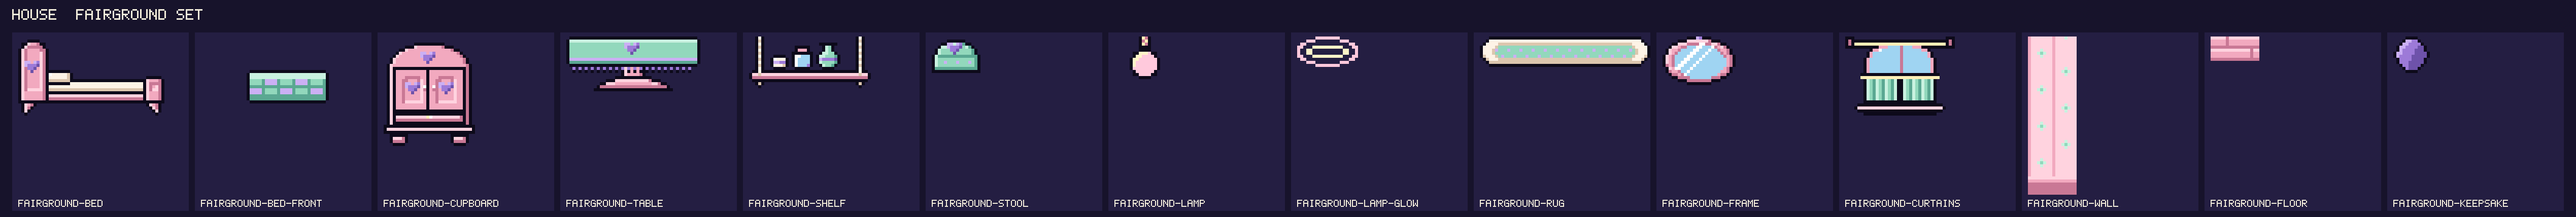
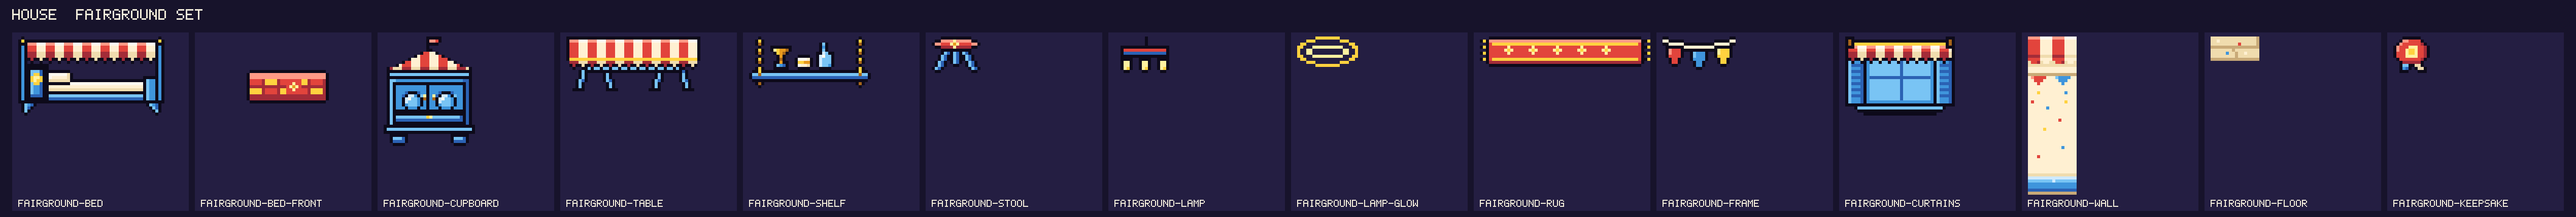
Fairground set: striped awnings, tent roof, bunting and bulbs from the Games meadow
Claude-Session: https://claude.ai/code/session_01EFPnY7ahFEnrNM2ViZtrVZ

diff --git a/apps/activity/src/sprites/data/house/fairground.ts b/apps/activity/src/sprites/data/house/fairground.ts
@@ -1,17 +1,119 @@
 /**
- * House furniture pack: Fairground. Made by `pnpm housing new-set fairground`: the nine pieces are drawn from the
- * style (`../../workshop/styles/fairground.ts`) with no overrides; the wallpaper, floor and keepsake are placeholders
- * in the style's palette.
- * TODO(artist): draw the wallpaper (16x52), floor (16x8) and keepsake (12x12) by hand in a `HAND` pack (see
- * `tidepool.ts`), and add overrides (with a reason) where a form cannot say what the set needs.
+ * House furniture pack: Fairground. The nine pieces are drawn from the style (`../../workshop/styles/fairground.ts`,
+ * with its part hooks: the bed's awning, the cupboard's tent roof, the stall table's cloth, the pennants, the string of
+ * bulbs, and the awning valance); nothing is overridden. The wallpaper, floor and keepsake are
+ * drawn here: the wallpaper is a red and cream striped awning with a scalloped hem over a string of pennants and
+ * confetti on cream, the floor trodden boardwalk planks, the keepsake a prize rosette with two ribbon tails. `.` is
+ * transparent, `k` the ink; the tiles have no outline.
  */
+import type { SpriteDef } from '../../sprite-data';
 import type { HouseArtPack } from '../../../housing/house-art';
 import { setPack, type SetSource } from '../../workshop/pack';
-import { placeholderHand } from '../../workshop/placeholder';
 import { FAIRGROUND } from '../../workshop/styles/fairground';
 
-/** TODO(artist): placeholder wallpaper, floor and keepsake. */
-const HAND: HouseArtPack = placeholderHand(FAIRGROUND);
+const PALETTE: Readonly<Record<string, string>> = FAIRGROUND.palette;
+
+/** A sprite with only the palette keys its rows use. */
+function art(rows: readonly string[]): SpriteDef {
+  const used = new Set(rows.join(''));
+  return {
+    rows,
+    palette: Object.fromEntries(Object.entries(PALETTE).filter(([key]) => used.has(key))),
+  };
+}
+
+/** One row of the awning: stripes four wide, `a` then `b`, twice. */
+const band = (a: string, b: string): string => `${a.repeat(4)}${b.repeat(4)}`.repeat(2);
+
+/** The keepsake, 12x12: a prize rosette (red, a gold middle) on a blue and a cream ribbon tail. */
+const KEEPSAKE: readonly string[] = [
+  '...kkkkkk...',
+  '..krrssssk..',
+  '.krsssssstk.',
+  'krsssyyysstk',
+  'krssyggysstk',
+  'ksssyggysstk',
+  'ksssyyyysstk',
+  '.kssssssstk.',
+  '..kttttttk..',
+  '..kbbkkjjk..',
+  '..kcdk.kjjk.',
+  '..kkk...kkk.',
+];
+
+const WALL: readonly string[] = [
+  // the awning: stripes of red and cream, lit on top and dark at the hem, then the scalloped tabs
+  band('r', 'w'),
+  ...Array.from({ length: 5 }, () => band('s', 'i')),
+  band('t', 'j'),
+  band('s', 'i'),
+  'jsstjiijjsstjiij',
+  'jjjjjjjjjjjjjjjj',
+  'iiiiiiiiiiiiiiii',
+  'iiiiiiiiiiiiiiii',
+  // a string of pennants: red and blue
+  'qqqqqqqqqqqqqqqq',
+  'irssssiiibccccii',
+  'iisssiiiiiccciii',
+  'iiisiiiiiiiciiii',
+  'iiiiiiiiiiiiiiii',
+  // confetti on cream
+  'iiiiiiiiiiiiiiii',
+  'iiigiiiiiiiiciii',
+  'iiiiiiiiiiiiiiii',
+  'iiiiiiiiiiiiiiii',
+  'isiiiiiiiiiigiii',
+  'iiiiiiiiiiiiiiii',
+  'iiiiiiciiiiiiiii',
+  'iiiiiiiiiiiiiiii',
+  'iiiiiiiiiiiiiiii',
+  'iiiiiiiiiiiiiiii',
+  'iiiiiiiiiisiiiii',
+  'iiiiiiiiiiiiiiii',
+  'iiiiiiiiiiiiiiii',
+  'iiiiigiiiiiiiiii',
+  'iiiiiiiiiiiiiiii',
+  'iiiiiiiiiiiiiiii',
+  'iiiiiiiiiiiiiiii',
+  'iiiiiiiiiiiiiiii',
+  'iiiiiiiiiiiiiiii',
+  'iiiiiiiiiiiciiii',
+  'iiiiiiiiiiiiiiii',
+  'iiiiiiiiiiiiiiii',
+  'iiisiiiiiiiiiiii',
+  'iiiiiiiiiiiiiiii',
+  'iiiiiiiiiiiiiiii',
+  'iiiiiiiiiiiiiiii',
+  'iiiiiiiiiiiiiiii',
+  'iiiiiiiiiiiiiiii',
+  'jjjjjjjjjjjjjjjj',
+  // skirting: a blue plank edge, the board and its shadow
+  'pppppppppppppppp',
+  'bbbbbbbbpbbbbbbb',
+  'cccccccccccccccc',
+  'cccccccccccccccc',
+  'dddddddddddddddd',
+  'qqqqqqqqqqqqqqqq',
+];
+
+const HAND: HouseArtPack = {
+  skins: {
+    'fairground-wall': { tile: art(WALL) },
+    'fairground-floor': {
+      tile: art([
+        'jjjjjjjjjjjjjjjq',
+        'jjijjjjjjjjjjjjq',
+        'jjjjjjjjjsjjjjjq',
+        'qqqqqqqqqqqqqqqq',
+        'jjjjjjjqjjjjjjjj',
+        'jjjjjcjjqjjijjjj',
+        'jjjjjjjjqjjjjjjj',
+        'qqqqqqqqqqqqqqqq',
+      ]),
+    },
+  },
+  keepsakes: { fairground: art(KEEPSAKE) },
+};
 
 export const SOURCE: SetSource = { style: FAIRGROUND, hand: HAND };
 

diff --git a/apps/activity/src/sprites/workshop/styles/fairground.ts b/apps/activity/src/sprites/workshop/styles/fairground.ts
@@ -91,9 +91,9 @@ const tent: PartDraw = ({ c, style, at }) => {
 
 /** The stall table's cloth: stripes over the whole top, a scalloped hem. */
 const stallCloth: PartDraw = ({ c, style, at }) => {
-  stripes(c, style, 0, 0, 44, at.y + 3);
+  stripes(c, style, 1, 1, 42, at.y + 2);
   hline(c, 1, at.y + 2, 42, style.accent.light);
-  scallops(c, style, 0, at.y + 3, 44);
+  scallops(c, style, 1, at.y + 3, 42);
 };
 
 /** A string of three pennants for the frame. */
@@ -105,7 +105,9 @@ const bunting: PartDraw = ({ c, style }) => {
   ];
   for (let x = 0; x < 24; x++) {
     const sag = Math.round(2 * Math.sin((Math.PI * x) / 23));
+    put(c, x, sag, INK);
     put(c, x, 1 + sag, style.linen.mid);
+    put(c, x, 2 + sag, INK);
   }
   for (const f of flags) {
     const sag = Math.round(2 * Math.sin((Math.PI * (f.x + 2.5)) / 23));
@@ -116,10 +118,11 @@ const bunting: PartDraw = ({ c, style }) => {
   }
 };
 
-/** A string of three bulbs on a brass bar, hanging from the ceiling. */
+/** A string of three bulbs on a blue bar, hanging from the ceiling. */
 const bulbs: PartDraw = ({ c, style }) => {
   for (let y = 0; y < 3; y++) put(c, 10, y, INK);
-  box(c, 2, 3, 16, 4, style.metal, { shade: 'rows' });
+  box(c, 2, 3, 16, 4, style.wood, { shade: 'rows' });
+  hline(c, 3, 4, 14, style.cloth.mid);
   for (const x of [2, 8, 14]) {
     stamp(c, x, 7, ['kkkk', 'kyyk', 'kyyk', 'kygk', '.kk.'], {
       y: style.accent.hi ?? style.accent.light,
@@ -128,17 +131,30 @@ const bulbs: PartDraw = ({ c, style }) => {
   }
 };
 
-/** The stool's seat: a flat striped cushion with the star. */
-const seat: PartDraw = ({ c, style }) => {
-  stripes(c, style, 1, 1, 14, 3);
-  put(c, 7, 2, style.accent.hi ?? style.accent.light);
-  put(c, 8, 2, style.accent.light);
-};
-
 /** The curtains' valance: the stall awning over the window. */
 const awningValance: PartDraw = ({ c, style }) => {
   stripes(c, style, 1, 3, 34, 3);
   scallops(c, style, 1, 6, 34);
+};
+
+/** A red runner with a yellow stripe along each side, a row of stars and a yellow fringe at both ends. */
+const runner: PartDraw = ({ c, style, at }) => {
+  box(c, at.x + 2, at.y, at.w - 4, at.h, style.cloth, { shade: 'rows', round: 1 });
+  for (const y of [at.y + 2, at.y + at.h - 3]) {
+    hline(c, at.x + 4, y, at.w - 8, style.accent.light);
+  }
+  for (let x = at.x + 8; x < at.x + at.w - 10; x += 8) {
+    stamp(c, x, at.y + 3, ['.y.', 'ygy', '.y.'], {
+      y: style.accent.hi ?? style.accent.light,
+      g: style.accent.light,
+    });
+  }
+  for (const x of [at.x, at.x + at.w - 2]) {
+    for (let y = at.y + 1; y < at.y + at.h - 1; y += 2) {
+      put(c, x, y, INK);
+      put(c, x + 1, y, style.accent.light);
+    }
+  }
 };
 
 export const FAIRGROUND: Style = {
@@ -195,7 +211,7 @@ export const FAIRGROUND: Style = {
     table: { apron: stallCloth },
     frame: { frame: bunting, picture: () => undefined },
     lamp: { lamp: bulbs },
-    stool: { seat },
+    rug: { rug: runner },
     curtains: { valance: awningValance },
   },
 };

diff --git a/apps/activity/src/sprites/workshop/new-set.test.ts b/apps/activity/src/sprites/workshop/new-set.test.ts
@@ -261,7 +261,7 @@ describe('remove-set, as a plan', () => {
 
   it('never touches a shipped set', () => {
     const { read } = files();
-    for (const id of ['cosy', 'tidepool', 'lantern-night', 'quiet-verge']) {
+    for (const id of ['cosy', 'tidepool', 'lantern-night', 'quiet-verge', 'fairground']) {
       expect(() => planRemoveSet(id, read)).toThrow(/shipped/);
       expect(() => planNewSet(parseSpec(id, {}), read, ctx(read))).toThrow(/shipped/);
     }

diff --git a/apps/activity/src/sprites/workshop/new-set.ts b/apps/activity/src/sprites/workshop/new-set.ts
@@ -45,6 +45,7 @@ export const SHIPPED_SET_IDS: readonly string[] = [
   'ancient',
   'lantern-night',
   'quiet-verge',
+  'fairground',
 ];
 
 /** The style `new-set` copies when `--from` is not given. */

diff --git a/docs/compendium/housing.md b/docs/compendium/housing.md
@@ -86,39 +86,39 @@ A form is a kind of furniture and the spot it fits. Every piece of a form shares
 
 ## Sets
 
-Ten sets: the starter set and nine to collect, each with its own palette and one motif that appears on every piece. Finishing a set puts its keepsake in the trophy hall's cabinet. A set is never a bonus. `(content: sets.json)`
+Eleven sets: the starter set and ten to collect, each with its own palette and one motif that appears on every piece. Finishing a set puts its keepsake in the trophy hall's cabinet. A set is never a bonus. `(content: sets.json)`
 
-| Set           | Element | Keepsake `(content)`                                                        | Motif and palette `(design)`                                                                                                         |
-| ------------- | ------- | --------------------------------------------------------------------------- | ------------------------------------------------------------------------------------------------------------------------------------ |
-| Cosy          | None    | Hearth Bell: A small brass bell. It rings when someone comes home.          | The living room as it is: warm wood, cream cushions. Shipped sprites; only the missing forms are new.                                |
-| Tidepool      | Tide    | Pearl Shell: A shell with a pearl still inside.                             | Driftwood with scalloped shell edges; sea blue, sand, pearl white.                                                                   |
-| Moonlit       | Tide    | Moon Pebble: A smooth stone, cool at noon and warm at midnight.             | Night-reef blue lacquer, coral pink inlay, a soft moonstone knob; silver highlights.                                                 |
-| Emberhold     | Ember   | Forge Ember: A coal that has never gone out.                                | Forge-folk work: black charwood, riveted iron bands, amber glow; rust, coal, ember orange.                                           |
-| Rootwood      | Grove   | Acorn Seedling: A seedling in a thimble, and growing.                       | Woodfolk of the Hollow: living-wood curves, leaf carving, moss cushions; bark brown, moss and leaf greens.                           |
-| Stormglass    | Spark   | Spark Bead: A glass bead with a small storm inside.                         | Pale ash with a lightning scar, copper coils and glass beads; slate, copper, storm violet.                                           |
-| Fenkeeper     | Mire    | Opal Drop: A drop of opal on a reed string.                                 | The bog keeps things: dark oak with reed bindings, an oil-sheen opal; peat brown, murky teal, a violet glint.                        |
-| Ancient       | None    | Gold Spiral: A small spiral of gold leaf, worn thin by hands.               | Carved standing-stone slabs, spiral carvings, worn gold leaf; sandstone, faded gold, patina teal.                                    |
-| Lantern Night | None    | Paper Tassel: A red tassel that still smells of festival evenings.          | Paper lanterns and bunting on painted wood; festival red, gold, cream.                                                               |
-| Quiet Verge   | None    | Pocket Window: A small stone window. Look in, and one warm star looks back. | Dusk-violet stone edged in pale rim light, arches with a warm star inside, chips of stone that float; window dark, lilac, star gold. |
-| Fairground    | None    | Fairground Keepsake: TODO line                                              | draft: Striped awnings, bunting and prize ribbons on painted wood; red, cream, sky blue, sunny yellow.                               |
+| Set           | Element | Keepsake `(content)`                                                         | Motif and palette `(design)`                                                                                                         |
+| ------------- | ------- | ---------------------------------------------------------------------------- | ------------------------------------------------------------------------------------------------------------------------------------ |
+| Cosy          | None    | Hearth Bell: A small brass bell. It rings when someone comes home.           | The living room as it is: warm wood, cream cushions. Shipped sprites; only the missing forms are new.                                |
+| Tidepool      | Tide    | Pearl Shell: A shell with a pearl still inside.                              | Driftwood with scalloped shell edges; sea blue, sand, pearl white.                                                                   |
+| Moonlit       | Tide    | Moon Pebble: A smooth stone, cool at noon and warm at midnight.              | Night-reef blue lacquer, coral pink inlay, a soft moonstone knob; silver highlights.                                                 |
+| Emberhold     | Ember   | Forge Ember: A coal that has never gone out.                                 | Forge-folk work: black charwood, riveted iron bands, amber glow; rust, coal, ember orange.                                           |
+| Rootwood      | Grove   | Acorn Seedling: A seedling in a thimble, and growing.                        | Woodfolk of the Hollow: living-wood curves, leaf carving, moss cushions; bark brown, moss and leaf greens.                           |
+| Stormglass    | Spark   | Spark Bead: A glass bead with a small storm inside.                          | Pale ash with a lightning scar, copper coils and glass beads; slate, copper, storm violet.                                           |
+| Fenkeeper     | Mire    | Opal Drop: A drop of opal on a reed string.                                  | The bog keeps things: dark oak with reed bindings, an oil-sheen opal; peat brown, murky teal, a violet glint.                        |
+| Ancient       | None    | Gold Spiral: A small spiral of gold leaf, worn thin by hands.                | Carved standing-stone slabs, spiral carvings, worn gold leaf; sandstone, faded gold, patina teal.                                    |
+| Lantern Night | None    | Paper Tassel: A red tassel that still smells of festival evenings.           | Paper lanterns and bunting on painted wood; festival red, gold, cream.                                                               |
+| Quiet Verge   | None    | Pocket Window: A small stone window. Look in, and one warm star looks back.  | Dusk-violet stone edged in pale rim light, arches with a warm star inside, chips of stone that float; window dark, lilac, star gold. |
+| Fairground    | None    | Prize Rosette: A pleated rosette with two ribbon tails. It says first prize. | Striped awnings, bunting and prize ribbons on painted wood; red, cream, sky blue, sunny yellow.                                      |
 
 ### Keepsakes
 
 Shown in the cabinet when the set is complete. `(content: sets.json)`
 
-| Keepsake            | Set           | Line `(content)`                                             |
-| ------------------- | ------------- | ------------------------------------------------------------ |
-| Hearth Bell         | Cosy          | A small brass bell. It rings when someone comes home.        |
-| Pearl Shell         | Tidepool      | A shell with a pearl still inside.                           |
-| Moon Pebble         | Moonlit       | A smooth stone, cool at noon and warm at midnight.           |
-| Forge Ember         | Emberhold     | A coal that has never gone out.                              |
-| Acorn Seedling      | Rootwood      | A seedling in a thimble, and growing.                        |
-| Spark Bead          | Stormglass    | A glass bead with a small storm inside.                      |
-| Opal Drop           | Fenkeeper     | A drop of opal on a reed string.                             |
-| Gold Spiral         | Ancient       | A small spiral of gold leaf, worn thin by hands.             |
-| Paper Tassel        | Lantern Night | A red tassel that still smells of festival evenings.         |
-| Pocket Window       | Quiet Verge   | A small stone window. Look in, and one warm star looks back. |
-| Fairground Keepsake | Fairground    | TODO: one line about the Fairground keepsake. (draft)        |
+| Keepsake       | Set           | Line `(content)`                                              |
+| -------------- | ------------- | ------------------------------------------------------------- |
+| Hearth Bell    | Cosy          | A small brass bell. It rings when someone comes home.         |
+| Pearl Shell    | Tidepool      | A shell with a pearl still inside.                            |
+| Moon Pebble    | Moonlit       | A smooth stone, cool at noon and warm at midnight.            |
+| Forge Ember    | Emberhold     | A coal that has never gone out.                               |
+| Acorn Seedling | Rootwood      | A seedling in a thimble, and growing.                         |
+| Spark Bead     | Stormglass    | A glass bead with a small storm inside.                       |
+| Opal Drop      | Fenkeeper     | A drop of opal on a reed string.                              |
+| Gold Spiral    | Ancient       | A small spiral of gold leaf, worn thin by hands.              |
+| Paper Tassel   | Lantern Night | A red tassel that still smells of festival evenings.          |
+| Pocket Window  | Quiet Verge   | A small stone window. Look in, and one warm star looks back.  |
+| Prize Rosette  | Fairground    | A pleated rosette with two ribbon tails. It says first prize. |
 
 ### Cosy set
 
@@ -293,19 +293,21 @@ Still stone and starlight, from the edge of the map. `(content)`
 
 ### Fairground set
 
-Draft: TODO one line about the Fairground set. `(content)`
+Stripes, bunting and a prize for everyone, from the meadow. `(content)`
 
-| Piece               | Form     | Line `(content)`                              |
-| ------------------- | -------- | --------------------------------------------- |
-| Fairground Bed      | Bed      | TODO: one line about the Fairground bed.      |
-| Fairground Cupboard | Cupboard | TODO: one line about the Fairground cupboard. |
-| Fairground Table    | Table    | TODO: one line about the Fairground table.    |
-| Fairground Shelf    | Shelf    | TODO: one line about the Fairground shelf.    |
-| Fairground Stool    | Stool    | TODO: one line about the Fairground stool.    |
-| Fairground Lamp     | Lamp     | TODO: one line about the Fairground lamp.     |
-| Fairground Rug      | Rug      | TODO: one line about the Fairground rug.      |
-| Fairground Frame    | Frame    | TODO: one line about the Fairground frame.    |
-| Fairground Curtains | Curtains | TODO: one line about the Fairground curtains. |
+**Compendium detail, not shipped.** Made the way the Meadow Committee makes everything: from what the Games left over. Booth-blue paint, awning cloth cut from the same red and cream stripes as the Prize Stall, bunting from the kite pile and brass bulbs from the loudspeaker pole. The Games Meadow lies just off the Old Crossroads, so that is where its blueprints turn up, and a Games gold earns one too. Nothing in the set is quiet.
+
+| Piece               | Form     | Line `(content)`                                                          |
+| ------------------- | -------- | ------------------------------------------------------------------------- |
+| Fairground Bed      | Bed      | A bed under a striped awning, with a gold star on the quilt.              |
+| Fairground Cupboard | Cupboard | A tent-roofed cupboard with a pennant on top and two round windows.       |
+| Fairground Table    | Table    | A stall table under a red and cream cloth. Prizes go here.                |
+| Fairground Shelf    | Shelf    | A shelf hung on chains, with a trophy and a bottle to knock down.         |
+| Fairground Stool    | Stool    | A three-legged stool with a striped cushion and a star.                   |
+| Fairground Lamp     | Lamp     | Three bulbs on one bar, lit all evening, like the stalls.                 |
+| Fairground Rug      | Rug      | A red runner with a gold edge and stars, for the walk to the prize stall. |
+| Fairground Frame    | Frame    | A string of three small pennants. Hang it where a party is needed.        |
+| Fairground Curtains | Curtains | A striped awning over blue shutters, as if the window sold lemonade.      |
 
 ## Wild pieces
 
@@ -394,8 +396,8 @@ Wallpapers and floors for the rooms, roofs and walls for the outside of the hous
 | Lantern Night Floor     | floor       | A blueprint from the Festival Grounds, a Festival finale or a Games gold. |
 | Quiet Verge Wallpaper   | wall        | A blueprint from the Old Crossroads or the Moonlit Reef.                  |
 | Quiet Verge Floor       | floor       | A blueprint from the Old Crossroads or the Moonlit Reef.                  |
-| Fairground Wallpaper    | wall        | A blueprint from the Old Crossroads.                                      |
-| Fairground Floor        | floor       | A blueprint from the Old Crossroads.                                      |
+| Fairground Wallpaper    | wall        | A blueprint from the Old Crossroads or a Games gold.                      |
+| Fairground Floor        | floor       | A blueprint from the Old Crossroads or a Games gold.                      |
 | Kitchen Wallpaper       | wall        | Comes with the Cottage.                                                   |
 | Kitchen Floor           | floor       | Comes with the Cottage.                                                   |
 | Attic Wallpaper         | wall        | Comes with the House.                                                     |

diff --git a/docs/design/housing.md b/docs/design/housing.md
@@ -10,7 +10,7 @@ Misa's words this spec answers: the house "grows visibly ... further than just a
 - **It grows.** A plan of **parts**: the core grows hut, cottage, house (one to three floors); then the player chooses, in any order the prerequisites allow, a **cellar**, a **west wing** and an **east wing** (each with an upper floor of its own), and grounds: a **terrace**, a **decorative garden** and a **pool**. Each part is bought like Animal Crossing's loan: a price in Acorns (the `bait` currency), scrap, sometimes shards, and **luxury materials**; the player pays into it whenever and however much they like, there is no deadline and no interest, and the part is **built the moment it is fully paid**. The drawing changes at once: a wider roof, a second storey, wings with their own roofs, a hedge and a fountain, a pool with a lounger.
 - **Rooms have fixed spots.** Each room has six to ten typed spots (a window, a wall, a small wall, the ceiling, a big floor place, two small floor places, a rug) plus a wallpaper and a floor. Tapping a room focuses it; tapping a spot shows the pieces that fit it. No free placement, no grid.
 - **Furniture is made, not bought.** The **workbench** in the Hearth turns a known blueprint plus its materials, Acorns and scrap into the piece **at once** (no timer). Blueprints: the Cosy set and a few wild pieces are known from the start; set blueprints are rare finds from the places and fights each set belongs to; a few come from feats.
-- **Sets.** Eight sets (nine since Quiet Verge, 2026-11-11) of nine look-alike pieces (bed, cupboard, table, shelf, stool, lamp, rug, frame, curtains), each tied to a place and its element (the **Ancient** set is Misa's example), plus twelve **wild** pieces in no set and twelve garden and pool pieces. Each set also has a wallpaper and a floor. **Finishing a set** (owning one of every piece) puts the set's **keepsake** in the trophy hall's cabinet and in the catalogue. It is never a bonus.
+- **Sets.** Eight sets (nine since Quiet Verge, 2026-11-11; ten since Fairground) of nine look-alike pieces (bed, cupboard, table, shelf, stool, lamp, rug, frame, curtains), each tied to a place and its element (the **Ancient** set is Misa's example), plus twelve **wild** pieces in no set and twelve garden and pool pieces. Each set also has a wallpaper and a floor. **Finishing a set** (owning one of every piece) puts the set's **keepsake** in the trophy hall's cabinet and in the catalogue. It is never a bonus.
 - **Luxury materials** (sixteen: woods, stones, metals, cloth) drop from the moments that already reward the player: a finished trip, a scout's pack coming home, the end of a dungeon run, the raid finale, a Games medal. They are used by housing alone. The House shows "+N" on a material that grew since the player last looked.
 - **Displays fill themselves.** The Hearth's mantel holds the player's best raid plaque, or the empty outlined plaque of this week's boss. The **trophy hall** (the west wing's ground floor) holds a plaque per raid boss beaten (by best rank, with wins), the Games medals bench, the event-badge medallions, the Festival case, the commons' keepsakes, the completed journal sets as bound books, the dungeon depth marker and the set keepsakes. Nothing to place: they come from what the player already did.
 - **Housemates.** A bed is a piece like any other; on a bed the player can put one creature. It is drawn asleep in its bed (a "z" over it) when it is not away on a trip, a job, a valley post or an open dungeon run; otherwise the bed is just made. At most **3 housemates** per house (pick), one bed per room. It earns nothing different from resting anywhere: it is a picture, not a post.
@@ -381,7 +381,7 @@ All parts: 2,000 Acorns and 13,000 scrap, about five weeks of a late-game daily 
 
 "Raid (Tide)" means any Tide boss's finale; the boss's element picks the table. Flavour lines go in the compendium (package D), in its voice: "Grey wood the tide sanded smooth. It still smells of salt."; "Black oak the bog kept for a hundred years, and gave back."
 
-**Sets** (eight plus the starter at first, nine since Quiet Verge; each has the nine forms, a wallpaper and a floor; 72 set pieces plus the Cosy set's 18, and 18 wallpapers and floors):
+**Sets** (eight plus the starter at first, nine since Quiet Verge, ten since Fairground; each has the nine forms, a wallpaper and a floor; 90 set pieces plus the Cosy set's 18, and 20 wallpapers and floors):
 
 | Set           | Element | Primary       | Accent        | Tier | Blueprints drop from                                  | Theme (silhouette and palette)                                                                                                                                                                   |
 | ------------- | ------- | ------------- | ------------- | ---- | ----------------------------------------------------- | ------------------------------------------------------------------------------------------------------------------------------------------------------------------------------------------------ |
@@ -395,6 +395,7 @@ All parts: 2,000 Acorns and 13,000 scrap, about five weeks of a late-game daily 
 | Ancient       | none    | any stone     | Old Gold      | 2    | any raid finale cleared; Old Crossroads               | Misa's example: carved standing-stone slabs, spiral carvings, worn gold leaf; sandstone, faded gold, patina teal                                                                                 |
 | Lantern Night | none    | Lantern Silk  | any wood      | 2    | Festival Grounds; a Festival finale; a Games gold     | paper lanterns and bunting on painted wood; festival red, gold, cream                                                                                                                            |
 | Quiet Verge   | none    | any stone     | Moonstone     | 2    | Old Crossroads; Moonlit Reef; trips, scouts and raids | the Void place (2026-11-11, the first set made with `pnpm housing new-set`): standing stones, an arch with a warm star, floating chips, a still pool; dusk violet, lilac, window dark, star gold |
+| Fairground    | none    | any wood      | any cloth     | 1    | Old Crossroads; trips, scouts, raids and a Games gold | the Valley Games meadow: striped awnings, a tent roof, bunting, a string of bulbs, prize-stall cloth; booth blue, red and cream, brass yellow                                                    |
 
 Set piece ids are `<set>-<form>` for the nine forms (`ancient-stool`, `ancient-cupboard`); names are "<Set> <Form>" ("Ancient Stool"). Skin ids `<set>-wall`, `<set>-floor`.
 

diff --git a/docs/art/README.md b/docs/art/README.md
@@ -80,7 +80,7 @@ Status: **liked** means Misa approved the look; **draft** means he has not said 
 - **Status:** draft
 - **Requested:** 2026-11-11: player housing furniture, a set made in the workshop (pnpm housing new-set).
 - **Source:** `apps/activity/src/sprites/concepts/house-fairground.ts` (draw it with `pnpm art house-fairground`)
-- **Sheet of:** `1ab1bbb7012b`
+- **Sheet of:** `b002dfe920b7`
 - Striped awnings, bunting and prize ribbons on painted wood; red, cream, sky blue, sunny yellow. Drawn from its style (apps/activity/src/sprites/workshop/styles/fairground.ts); the pack is data/house/fairground.ts.
 - Needs the housing content (piece, skin and set ids as drawn).
 

diff --git a/docs/compendium/games.md b/docs/compendium/games.md
@@ -117,3 +117,4 @@ These were played in the first days of the Games and then taken out of the daily
 - The melon has a name, but only the committee know it.
 - Some say the giant pumpkins are cousins of the melon, grown from a seed that blew over the fence.
 - A pin board in the sauna hut lists every record ever set. Nobody has ever cleaned it.
+- The **Fairground** furniture set (`housing.md`) is the committee's leftovers made into a house: stall cloth, a bunting string, bulbs from the loudspeaker pole.

diff --git a/docs/compendium/places.md b/docs/compendium/places.md
@@ -427,6 +427,8 @@ From `glossary.json`, entry `destination-old-crossroads`:
 > - Splashet, Cindle, Sproutle, Zipmouse and Stormray pass through.
 > - Trips that were out when expeditions changed come home from here.
 
+The **Fairground** furniture set (`housing.md`, "Fairground set") comes from the Games Meadow just off this crossing: its blueprints turn up here, and a Games gold earns one `(compendium detail, not shipped)`.
+
 ---
 
 ## Moonlit Reef
